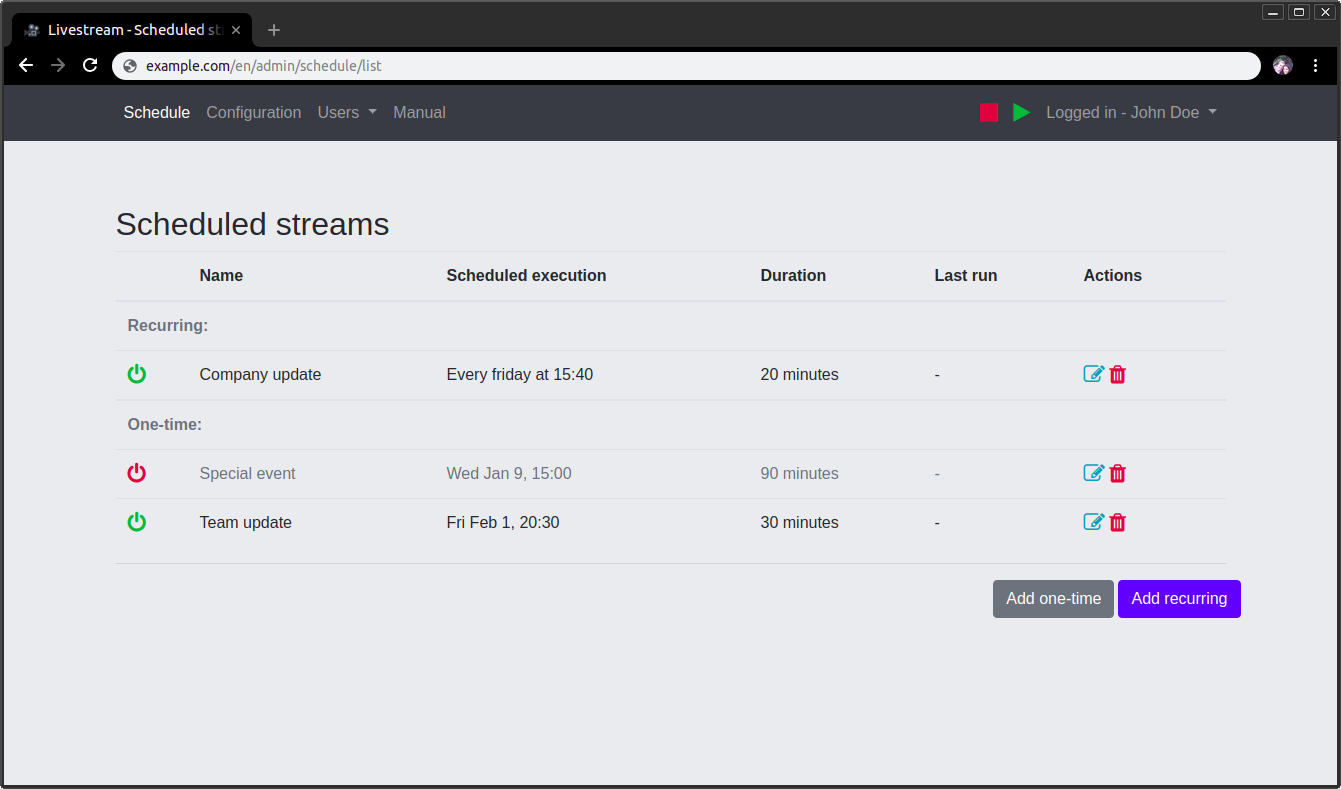
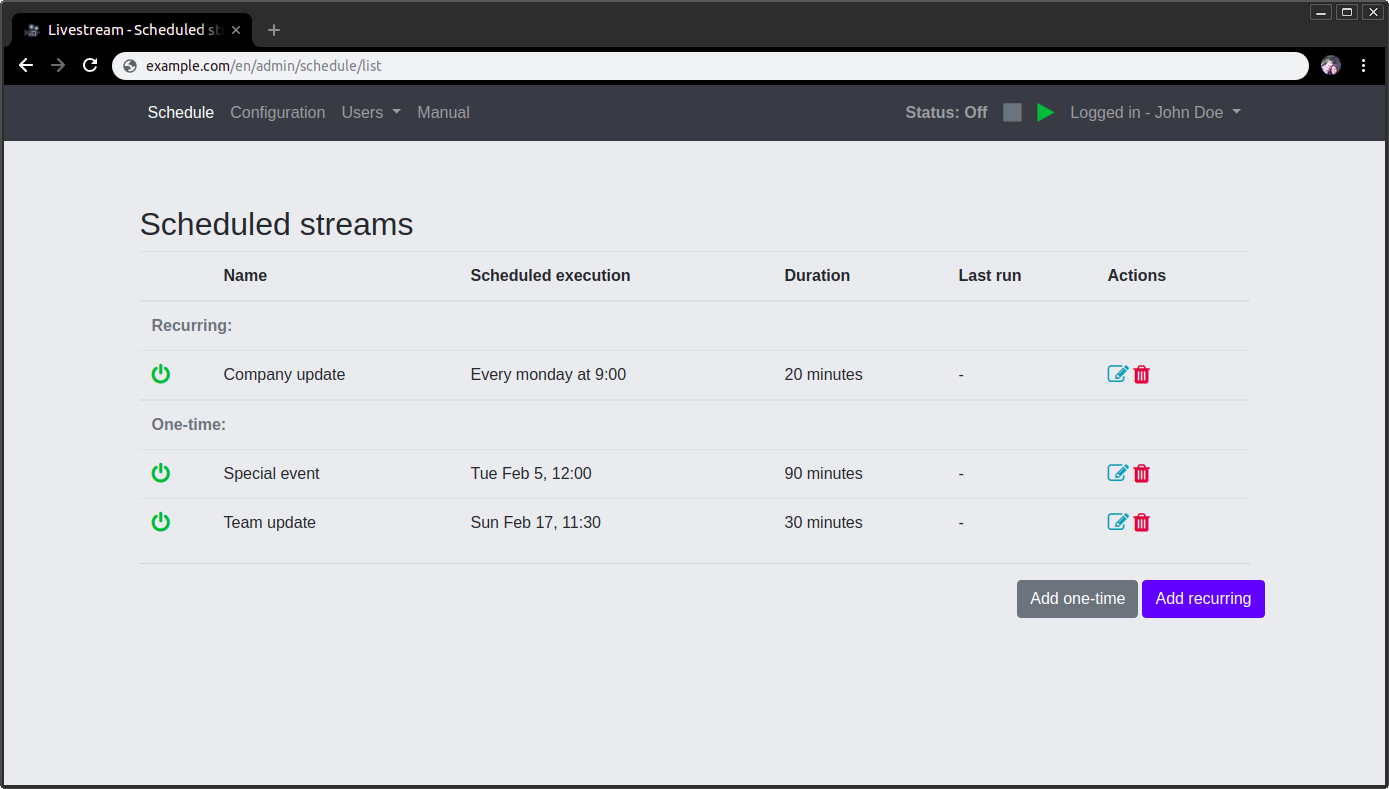
Added workflow/statemachine functionality to navbar and show current status

diff --git a/webpack.config.js b/webpack.config.js
@@ -5,7 +5,7 @@ Encore
     .setPublicPath('/build')
     .addEntry('app', './assets/js/app.js')
     .addEntry('favicon', './assets/images/favicon.ico')
-    .addEntry('cron-expresson', './assets/images/cron-expression.png')
+    .addEntry('cron-expresson', './assets/images/workflow.png')
 
     .cleanupOutputBeforeBuild()
     .enableBuildNotifications()

diff --git a/tests/App/Controller/LivestreamControllerTest.php b/tests/App/Controller/LivestreamControllerTest.php
@@ -4,11 +4,18 @@ declare(strict_types=1);
 namespace App\Tests\Controller;
 
 use App\Controller\LivestreamController;
+use App\Entity\Camera;
+use App\Exception\CouldNotModifyCameraException;
+use App\Exception\CouldNotStartLivestreamException;
+use App\Repository\CameraRepository;
 use App\Service\StreamProcessing\StartStreamService;
 use App\Service\StreamProcessing\StopStreamService;
+use Doctrine\ORM\ORMException;
 use PHPUnit\Framework\MockObject\MockObject;
 use PHPUnit\Framework\TestCase;
+use Psr\Log\LoggerInterface;
 use Symfony\Component\HttpFoundation\Response;
+use Symfony\Component\HttpFoundation\Session\Flash\FlashBagInterface;
 use Symfony\Component\Routing\RouterInterface;
 
 /**
@@ -30,6 +37,18 @@ class LivestreamControllerTest extends TestCase
     /** @var RouterInterface|MockObject */
     private $routerMock;
 
+    /** @var CameraRepository|MockObject */
+    private $cameraRepositoryMock;
+
+    /** @var LoggerInterface|MockObject */
+    private $loggerMock;
+
+    /** @var FlashBagInterface|MockObject */
+    private $flashBagMock;
+
+    /** @var \Twig_Environment|MockObject */
+    private $twigMock;
+
     /** @var LivestreamController */
     private $livestreamController;
 
@@ -38,19 +57,44 @@ class LivestreamControllerTest extends TestCase
         $this->startStreamServiceMock = $this->createMock(StartStreamService::class);
         $this->stopStreamServiceMock = $this->createMock(StopStreamService::class);
         $this->routerMock = $this->createMock(RouterInterface::class);
+        $this->cameraRepositoryMock = $this->createMock(CameraRepository::class);
+        $this->loggerMock = $this->createMock(LoggerInterface::class);
+        $this->flashBagMock = $this->createMock(FlashBagInterface::class);
+        $this->twigMock = $this->createMock(\Twig_Environment::class);
         $this->livestreamController = new LivestreamController(
             $this->startStreamServiceMock,
             $this->stopStreamServiceMock,
-            $this->routerMock
+            $this->routerMock,
+            $this->twigMock,
+            $this->cameraRepositoryMock,
+            $this->loggerMock,
+            $this->flashBagMock
         );
     }
 
     /**
      * @covers ::startStream
      */
-    public function testStartStream()
+    public function testStartStreamSuccess()
     {
         $this->startStreamServiceMock->expects($this->once())->method('process');
+        $this->routerMock->expects($this->once())->method('generate')->willReturn('<p>hi</p>');
+        $this->loggerMock->expects($this->never())->method('error');
+        $response = $this->livestreamController->startStream();
+        $this->assertSame(Response::HTTP_FOUND, $response->getStatusCode());
+    }
+
+
+    /**
+     * @covers ::startStream
+     */
+    public function testStartStreamFailed()
+    {
+        $this->startStreamServiceMock->expects($this->once())
+            ->method('process')
+            ->willThrowException(CouldNotStartLivestreamException::hostNotAvailable());
+        $this->loggerMock->expects($this->atLeastOnce())->method('error');
+
         $this->routerMock->expects($this->once())->method('generate')->willReturn('<p>hi</p>');
         $response = $this->livestreamController->startStream();
         $this->assertSame(Response::HTTP_FOUND, $response->getStatusCode());
@@ -59,11 +103,38 @@ class LivestreamControllerTest extends TestCase
     /**
      * @covers ::stopStream
      */
-    public function testStopStream()
+    public function testStopStreamSuccess()
     {
         $this->stopStreamServiceMock->expects($this->once())->method('process');
         $this->routerMock->expects($this->once())->method('generate')->willReturn('<p>hi</p>');
+        $this->loggerMock->expects($this->never())->method('error');
         $response = $this->livestreamController->stopStream();
         $this->assertSame(Response::HTTP_FOUND, $response->getStatusCode());
+    }
+
+    /**
+     * @covers ::stopStream
+     */
+    public function testStopStreamFailed()
+    {
+        $this->stopStreamServiceMock->expects($this->once())
+            ->method('process')
+            ->willThrowException(CouldNotModifyCameraException::forError(new ORMException()));
+        $this->loggerMock->expects($this->atLeastOnce())->method('error');
+
+        $this->routerMock->expects($this->once())->method('generate')->willReturn('<p>hi</p>');
+        $response = $this->livestreamController->stopStream();
+        $this->assertSame(Response::HTTP_FOUND, $response->getStatusCode());
+    }
+
+    /**
+     * @covers ::statusStream
+     */
+    public function testStatusStream()
+    {
+        $this->twigMock->expects($this->once())->method('render')->willReturn('<p>hi</p>');
+        $this->cameraRepositoryMock->expects($this->once())->method('getMainCamera')->willReturn(new Camera());
+        $response = $this->livestreamController->statusStream();
+        $this->assertSame(Response::HTTP_OK, $response->getStatusCode());
     }
 }

diff --git a/src/Controller/LivestreamController.php b/src/Controller/LivestreamController.php
@@ -3,12 +3,18 @@ declare(strict_types=1);
 
 namespace App\Controller;
 
+use App\Exception\CouldNotModifyCameraException;
+use App\Exception\CouldNotStartLivestreamException;
+use App\Repository\CameraRepository;
 use App\Service\StreamProcessing\StartStreamService;
 use App\Service\StreamProcessing\StopStreamService;
+use Psr\Log\LoggerInterface;
 use Symfony\Component\HttpFoundation\RedirectResponse;
+use Symfony\Component\HttpFoundation\Response;
+use Symfony\Component\HttpFoundation\Session\Flash\FlashBagInterface;
 use Symfony\Component\Routing\RouterInterface;
 
-class LivestreamController
+class LivestreamController extends Controller
 {
     /** @var StartStreamService */
     private $startStreamService;
@@ -19,20 +25,41 @@ class LivestreamController
     /** @var RouterInterface */
     private $router;
 
+    /** @var CameraRepository */
+    private $cameraRepository;
+
+    /** @var LoggerInterface */
+    private $logger;
+
+    /** @var FlashBagInterface */
+    private $flashBag;
+
     /**
      * LivestreamController constructor.
      * @param StartStreamService $startStreamService
      * @param StopStreamService $stopStreamService
      * @param RouterInterface $router
+     * @param \Twig_Environment $twig
+     * @param CameraRepository $cameraRepository
+     * @param LoggerInterface $logger
+     * @param FlashBagInterface $flashBag
      */
     public function __construct(
         StartStreamService $startStreamService,
         StopStreamService $stopStreamService,
-        RouterInterface $router
+        RouterInterface $router,
+        \Twig_Environment $twig,
+        CameraRepository $cameraRepository,
+        LoggerInterface $logger,
+        FlashBagInterface $flashBag
     ) {
+        parent::__construct($twig);
         $this->startStreamService = $startStreamService;
         $this->stopStreamService = $stopStreamService;
         $this->router = $router;
+        $this->cameraRepository = $cameraRepository;
+        $this->logger = $logger;
+        $this->flashBag = $flashBag;
     }
 
     /**
@@ -40,7 +67,12 @@ class LivestreamController
      */
     public function startStream()
     {
-        $this->startStreamService->process();
+        try {
+            $this->startStreamService->process();
+        } catch (CouldNotStartLivestreamException $exception) {
+            $this->logger->error('Could not start livestream', ['exception' => $exception]);
+            $this->flashBag->add(self::ERROR_MESSAGE, 'flash.livestream.error.start_stream');
+        }
         return new RedirectResponse($this->router->generate('scheduler_list'));
     }
 
@@ -49,7 +81,21 @@ class LivestreamController
      */
     public function stopStream()
     {
-        $this->stopStreamService->process();
+        try {
+            $this->stopStreamService->process();
+        } catch (CouldNotModifyCameraException $exception) {
+            $this->logger->error('Could not start livestream', ['exception' => $exception]);
+            $this->flashBag->add(self::ERROR_MESSAGE, 'flash.livestream.error.stop_stream');
+        }
         return new RedirectResponse($this->router->generate('scheduler_list'));
+    }
+
+    /**
+     * @return Response
+     */
+    public function statusStream()
+    {
+        $camera = $this->cameraRepository->getMainCamera();
+        return $this->render('components/livestream.html.twig', ['camera' => $camera]);
     }
 }

diff --git a/src/Command/SchedulerExecuteCommand.php b/src/Command/SchedulerExecuteCommand.php
@@ -5,6 +5,7 @@ namespace App\Command;
 
 use App\Entity\StreamSchedule;
 use App\Exception\ConflictingScheduledStreamsException;
+use App\Exception\CouldNotModifyCameraException;
 use App\Exception\CouldNotModifyStreamScheduleException;
 use App\Exception\ExecutorCouldNotExecuteStreamException;
 use App\Service\StreamProcessing\StopStreamService;
@@ -58,6 +59,7 @@ class SchedulerExecuteCommand extends Command
      * @param InputInterface $input
      * @param OutputInterface $output
      * @return int|null|void
+     * @throws CouldNotModifyCameraException
      */
     public function execute(InputInterface $input, OutputInterface $output)
     {
